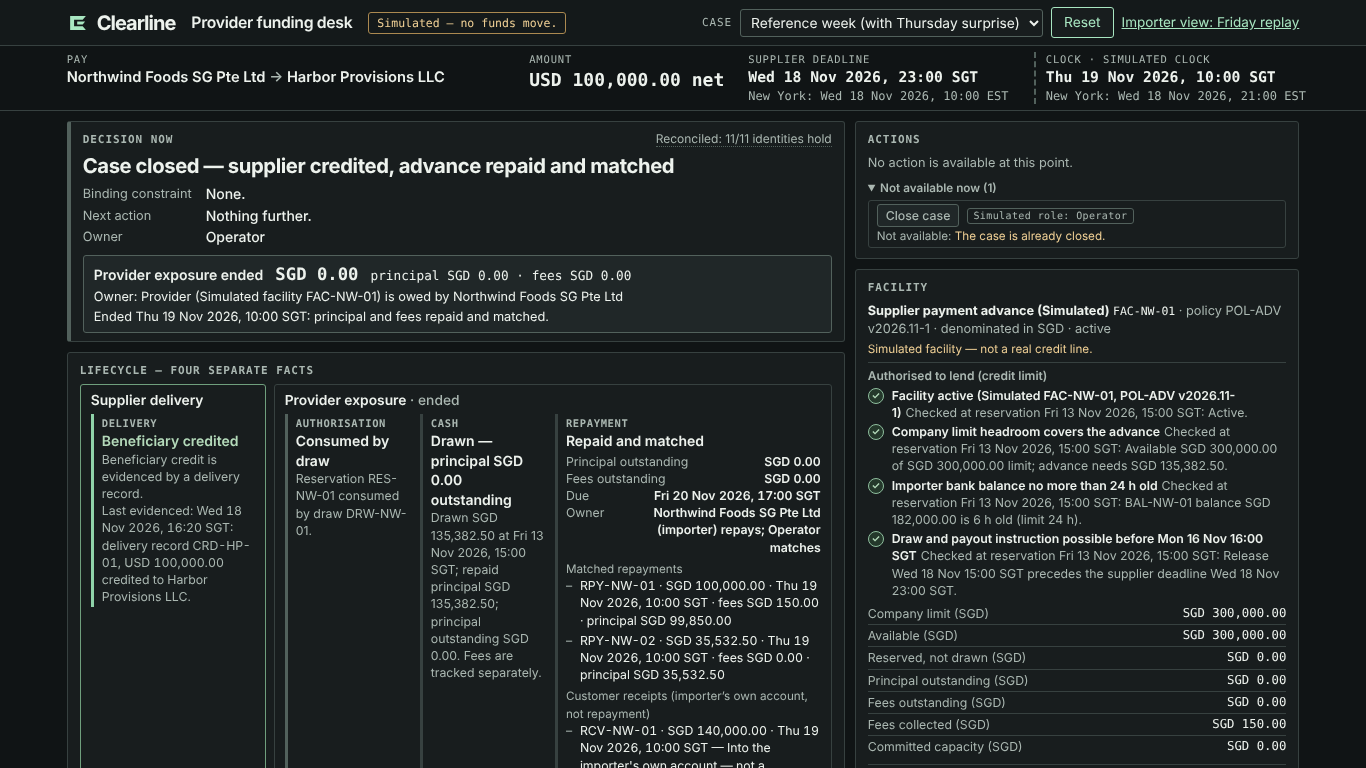
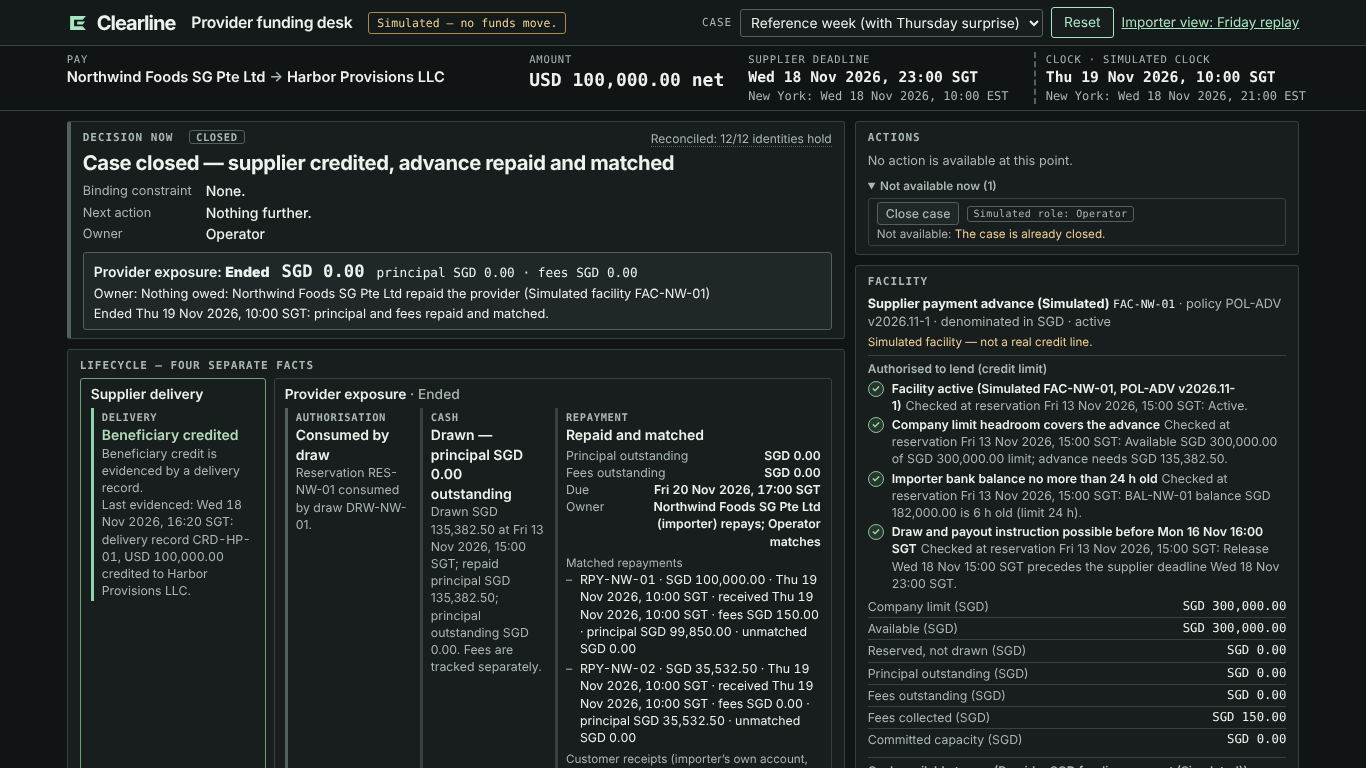
Desk renders new engine (tones incl. Declined, exposure Outstanding/Ended/No advance drawn, unallocated repayments); journey test 592 checks; screenshots incl. declined; next action no longer names a disabled return
Claude-Session: https://claude.ai/code/session_015s4Kk7vKgcSQ7csnYmEH5j

Changed region(s): [[0.0615, 0.1562, 0.9531, 1.0]]

diff --git a/funding-replay/app/static/lifecycle.js b/funding-replay/app/static/lifecycle.js
@@ -55,7 +55,7 @@
 
   // A list entry may be a string or a small object from the engine; show its strings as given.
   var ITEM_LEAD = ['id', 'amount', 'at_sgt'];
-  var ITEM_SKIP = { text: 1, label: 1, note: 1 };
+  var ITEM_SKIP = { text: 1, label: 1, note: 1, reason: 1, status: 1 };
   function itemText(x) {
     if (x === null || x === undefined) return DASH;
     if (typeof x !== 'object') return String(x);
@@ -70,6 +70,8 @@
       parts.push(k.replace(/_sgt$/, '').replace(/_/g, ' ') + ' ' + v);
     });
     var out = parts.join(' · ');
+    if (!isBlank(x.reason)) out += (out ? ' — ' : '') + x.reason;
+    if (!isBlank(x.status) && typeof x.status !== 'object') out += ' (' + x.status + ')';
     if (!isBlank(x.note)) out += (out ? ' — ' : '') + x.note;
     return out;
   }
@@ -98,6 +100,7 @@
   function clearAll() {
     REGIONS.forEach(function (id) { $(id).replaceChildren(); });
     $('lc-decision').className = 'lc-decision';
+    $('lc-tone').textContent = '';
     document.title = 'Clearline | Provider funding desk';
   }
 
@@ -220,21 +223,32 @@
     return el('div', { class: 'lc-drow' }, [el('dt', { text: label }), el('dd', { id: id || null, text: show(value) })]);
   }
 
+  // A plain word for every decision tone in the contract (styling and wording only; the tone is the engine's).
+  var TONE_WORD = { decide: 'Decision needed', blocked: 'Blocked', unknown: 'Evidence or response pending', review: 'Review',
+                    delivered_exposure: 'Supplier paid · exposure open', closed: 'Closed', declined: 'Declined', failed: 'Payout returned' };
+
   function renderDecision(ctx) {
     var d = ctx.v.decision || {}, x = ctx.v.exposure;
     var tone = isBlank(d.tone) ? 'unknown' : String(d.tone).replace(/[^a-z_]/g, '');
     $('lc-decision').className = 'lc-decision tone-' + tone;
-    var exposure = null;
+    $('lc-tone').textContent = TONE_WORD[tone] || tone;
+    $('lc-tone').className = 'lc-tone tonechip-' + tone;
+    var exposure;
     if (x) {
       var open = exposureOpen(ctx.v);
-      exposure = el('div', { class: 'lc-exposure ' + (open ? 'exp-open' : 'exp-ended'), id: 'lc-exposure', 'data-open': open ? 'true' : 'false' }, [
-        el('span', { class: 'lc-exposure-label', text: open ? 'Provider exposure outstanding' : 'Provider exposure ended' }),
+      exposure = el('div', { class: 'lc-exposure ' + (open ? 'exp-open' : 'exp-ended'), id: 'lc-exposure', 'data-open': open ? 'true' : 'false', 'data-status': x.status || null }, [
+        el('span', { class: 'lc-exposure-label' }, ['Provider exposure: ', el('strong', { id: 'lc-exposure-status', text: open ? 'Outstanding' : 'Ended' })]),
         el('span', { class: 'lc-exposure-amount num', text: show(x.amount) }),
         el('span', { class: 'lc-exposure-sub num' }, [
           'principal ', show(x.principal), ' · fees ', show(x.fees)
         ]),
         el('span', { class: 'lc-exposure-sub' }, ['Owner: ', show(x.owner)]),
         isBlank(x.ends_when) ? null : el('span', { class: 'lc-exposure-sub lc-exposure-ends' }, [open ? 'Ends: ' : '', x.ends_when])
+      ]);
+    } else {
+      // exposure is null until a draw: say so, never "Ended" or "Repaid".
+      exposure = el('div', { class: 'lc-exposure exp-none', id: 'lc-exposure', 'data-open': 'false', 'data-status': 'none' }, [
+        el('span', { class: 'lc-exposure-label' }, ['Provider exposure: ', el('strong', { id: 'lc-exposure-status', text: 'No advance drawn' })])
       ]);
     }
     fill('lc-decision-body', [
@@ -348,6 +362,7 @@
         inlineRow('Due', r.due_sgt, 'lc-rep-due'),
         inlineRow('Owner', r.owner, 'lc-rep-owner')
       ]),
+      itemList('Received — not yet matched', r.unallocated, 'lc-unallocated'),
       itemList('Matched repayments', r.matched),
       itemList('Customer receipts (importer’s own account, not repayment)', r.customer_receipts, 'lc-receipts'),
       itemList('Unmatched, held for review', r.unmatched, 'lc-unmatched'),
@@ -367,7 +382,7 @@
         factRow('Delivery', d, dTone, deliveryExtra, 'lc-fact-delivery')
       ]),
       el('section', { class: 'lc-half half-provider half-' + provTone, 'aria-labelledby': 'lc-h-provider' }, [
-        el('h3', { id: 'lc-h-provider' }, ['Provider exposure', el('span', { class: 'lc-half-state', text: open ? ' · outstanding ' + show(x.amount) : (x ? ' · ended' : ' · none outstanding') })]),
+        el('h3', { id: 'lc-h-provider' }, ['Provider exposure', el('span', { class: 'lc-half-state', text: open ? ' · Outstanding ' + show(x.amount) : (x ? ' · Ended' : ' · No advance drawn') })]),
         el('div', { class: 'lc-prov-facts' }, [
           factRow('Authorisation', a, AUTH_TONE[a.status] || 'pending', null, 'lc-fact-authorization'),
           factRow('Cash', c, cTone, null, 'lc-fact-cash'),
@@ -625,6 +640,11 @@
     }
     $('lc-case').value = caseId;
     loadState(caseId, stateId);
+    // A pasted or edited #case/state link loads that state (replaceState above never fires this).
+    window.addEventListener('hashchange', function () {
+      var h = /^#([A-Za-z0-9_-]+)\/([A-Za-z0-9_-]+)$/.exec(location.hash || '');
+      if (h && findCase(h[1]) && (h[1] !== st.caseId || h[2] !== st.stateId)) loadState(h[1], h[2]);
+    });
   }
 
   if (document.readyState === 'loading') document.addEventListener('DOMContentLoaded', boot);

diff --git a/funding-replay/app/static/lifecycle.css b/funding-replay/app/static/lifecycle.css
@@ -299,3 +299,20 @@ body.lc { font-size: 14px; line-height: 1.4; }
   .lc-decision { position: relative; }
   .lc-inv-line { position: absolute; top: 9px; right: 12px; margin: 0; }
 }
+
+/* tone word beside the kicker */
+.lc-tone { margin-left: 8px; font-size: 10.5px; letter-spacing: 0.06em; padding: 0 6px; border: 1px solid var(--border-strong); border-radius: 3px; color: var(--muted); }
+.lc-tone:empty { display: none; }
+.tonechip-decide { color: var(--accent); border-color: var(--accent); }
+.tonechip-unknown, .tonechip-review, .tonechip-delivered_exposure { color: var(--amber-text); border-color: var(--amber-border); }
+.tonechip-blocked, .tonechip-failed { color: var(--red-text); border-color: var(--red-border); }
+.tonechip-declined { color: var(--text); border-style: dashed; }
+/* declined: plain, neutral, dashed edge; not green, not an error */
+.tone-declined { border-left-style: dashed; border-left-color: var(--muted); background: var(--surface); }
+.tone-declined .lc-headline { color: var(--text); }
+.tone-decide { border-left-color: var(--accent); }
+.lc-exposure.exp-none { border-color: var(--border); background: transparent; color: var(--muted); padding: 3px 10px; }
+.lc-exposure.exp-none strong { color: var(--text); font-weight: 600; }
+.lc-unallocated { color: var(--amber-text); }
+.lc-panel, .lc-decision { padding: 8px 12px; }
+.lc-kicker { margin-bottom: 5px; }

diff --git a/funding-replay/app/static/lifecycle.html b/funding-replay/app/static/lifecycle.html
@@ -32,7 +32,7 @@
   <div class="lc-grid">
     <div class="lc-col lc-col-main" id="lc-col-main">
       <section class="lc-decision" id="lc-decision" aria-labelledby="lc-decision-heading">
-        <h2 class="lc-kicker" id="lc-decision-heading" tabindex="-1">Decision now</h2>
+        <h2 class="lc-kicker" id="lc-decision-heading" tabindex="-1">Decision now <span class="lc-tone" id="lc-tone"></span></h2>
         <div id="lc-decision-body" aria-live="polite" aria-atomic="true"></div>
       </section>
 

diff --git a/funding-replay/engine/lifecycle.py b/funding-replay/engine/lifecycle.py
@@ -1140,8 +1140,10 @@ def _decision(d, opts):
             tot.setdefault(u["money"].currency, []).append(u["money"].text())
         return dec("review", "Unmatched cash held for review — case cannot close",
                    "; ".join(u["reason"] for u in d.open_unmatched),
-                   "Return the unmatched item(s) to the payer%s." % (
-                       "; the importer still owes " + sgd(d.total_out) if d.total_out > 0 else ""), SIM_REVIEWER)
+                   ("Collect and match the remaining %s from %s; the unmatched item(s) stay held and can be "
+                    "returned to the payer once the advance is repaid and matched." % (sgd(d.total_out), fx["importer"])
+                    if d.total_out > 0 else "Return the unmatched item(s) to the payer."),
+                   OPERATOR if d.total_out > 0 else SIM_REVIEWER)
     if d.delivery == "credited" and d.incoming:
         return dec("decide", "Repayment received — match it to the advance",
                    "%s received and not yet allocated; %s." % (", ".join(i["money"].text() for i in d.incoming), owe),

diff --git a/funding-replay/tests/test_lifecycle.py b/funding-replay/tests/test_lifecycle.py
@@ -303,7 +303,11 @@ class Repayment(unittest.TestCase):
         v = L.view(run("reference", THU + PAY_ALL))
         self.assertEqual(v["facts"]["repayment"]["status"], "repaid")
         self.assertTrue(action(v, "close")["enabled"])
-        # wrong currency
+        # wrong currency: while the advance is still owed, the next action must not name the disabled return
+        mid = L.view(run("reference", THU + ["sim_pay_usd", "match_repayment"]))
+        self.assertFalse(action(mid, "return_unmatched")["enabled"])
+        self.assertFalse(mid["decision"]["next_action"].startswith("Return"))
+        self.assertIn("SGD 135,532.50", mid["decision"]["next_action"])
         st = run("reference", THU + ["sim_pay_usd", "match_repayment"] + PAY_ALL)
         v = L.view(st)
         self.assertEqual(v["facts"]["repayment"]["principal_outstanding"], "SGD 0.00")
